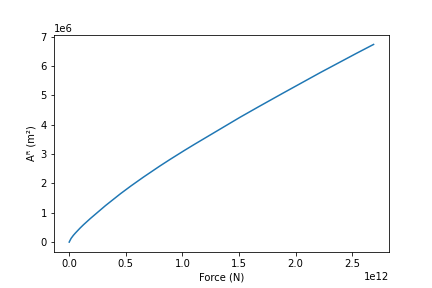
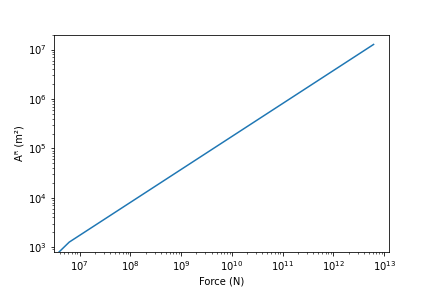
loi_puissance

diff --git a/algo_direct.py b/algo_direct.py
@@ -3,7 +3,7 @@
 import numpy as np
 import affichage
 import random
-
+import math
 
 def loi_indentation(rayons_courbure, hauteurs, delta):
     """
@@ -108,8 +108,13 @@ def get_force_aire(forces, aires, point):
 if __name__ == "__main__":
     # valeur de rayon de courbure issue des transparents de A.Aymard slide 39
     # valeurs en um
+    # rayons_courbure = np.array([526 for i in range(64)])
+    A = [i for i in range(0,10000)]
+    B = [i**(2/3) for i in range(0, 10000)]
     rayons_courbure = np.array([526 for i in range(64)])
-    hauteurs = np.array([np.clip(np.random.exponential(40), 0, 120) for i in range(64)])
+    hauteurs = np.array([120 for i in range(64)])
+    # hauteurs = np.array([np.clip(np.random.exponential(40), 0, 120) for i in range(64)])
     forces_totales, aires_totales = loi_totale(rayons_courbure, hauteurs)
-    affichage.loi(forces_totales, aires_totales)
+    #affichage.loi(forces_totales, aires_totales)
+    affichage.superposer_lois([(A,B),(forces_totales,aires_totales)])
     affichage.hauteur(hauteurs)

diff --git a/affichage.py b/affichage.py
@@ -80,6 +80,8 @@ def loi(forces, aires):
     plt.plot(forces, aires)
     plt.xlabel('Force (N)')
     plt.ylabel('A\u1D3F (m²)')
+    plt.yscale('log')
+    plt.xscale('log')
     # Définir la plage des valeurs des forces et des aires pour le zoom
     # plt.xlim(forces[0], forces[7500])
     # plt.ylim(aires[0], aires[7500])
@@ -118,6 +120,8 @@ def superposer_lois(listes, points=None):
 
     plt.xlabel('Force (N)')
     plt.ylabel('Aire (m²)')
+    plt.yscale('log')
+    plt.xscale('log')
     plt.title('Superposition de lois force-aire')
     plt.savefig("superposition_lois.png")
     plt.show()
@@ -131,7 +135,8 @@ def superposer_loi_points(forces, aires, points, generation, individu_score):
     ----------
     forces : list of floats
         Liste avec les valeurs des forces.
-    aires : list of floats
+    air Numero de la generation.
+    indes : list of floats
         Liste avec les valeurs des aires totales.
     points : list of couple of floats
         Liste des points (force, aire) a atteindre.

diff --git a/Individu.py b/Individu.py
@@ -4,7 +4,7 @@ import random
 import algo_direct
 
 nombre_asperites = 64
-changement_rayons = True
+changement_rayons = False
 
 
 class Individu:
